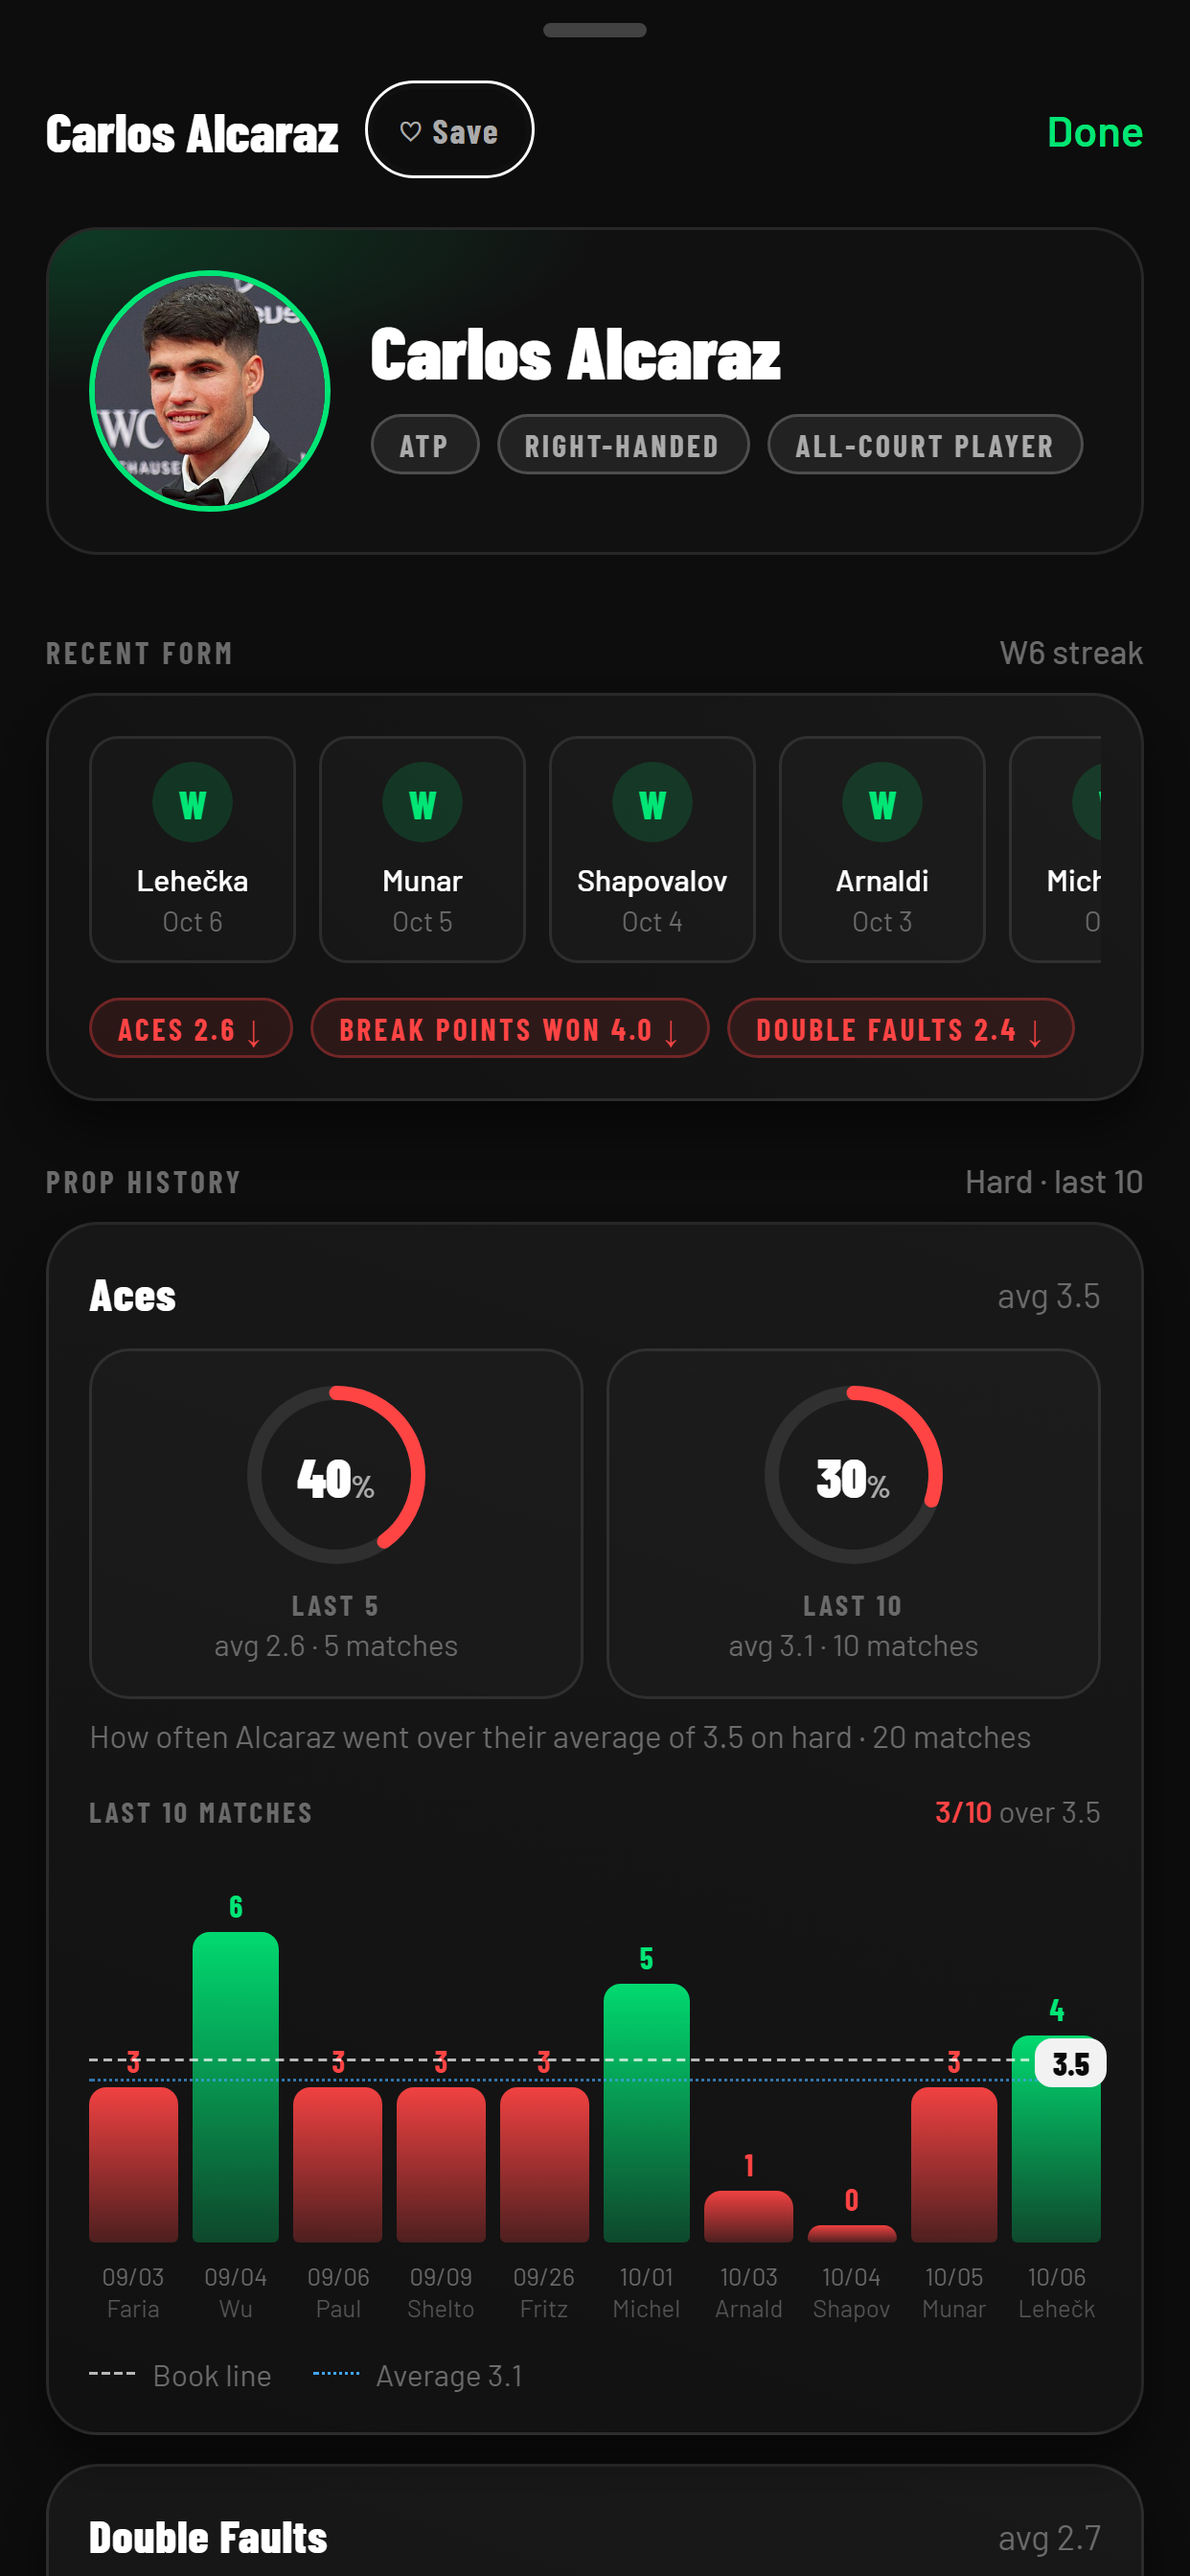
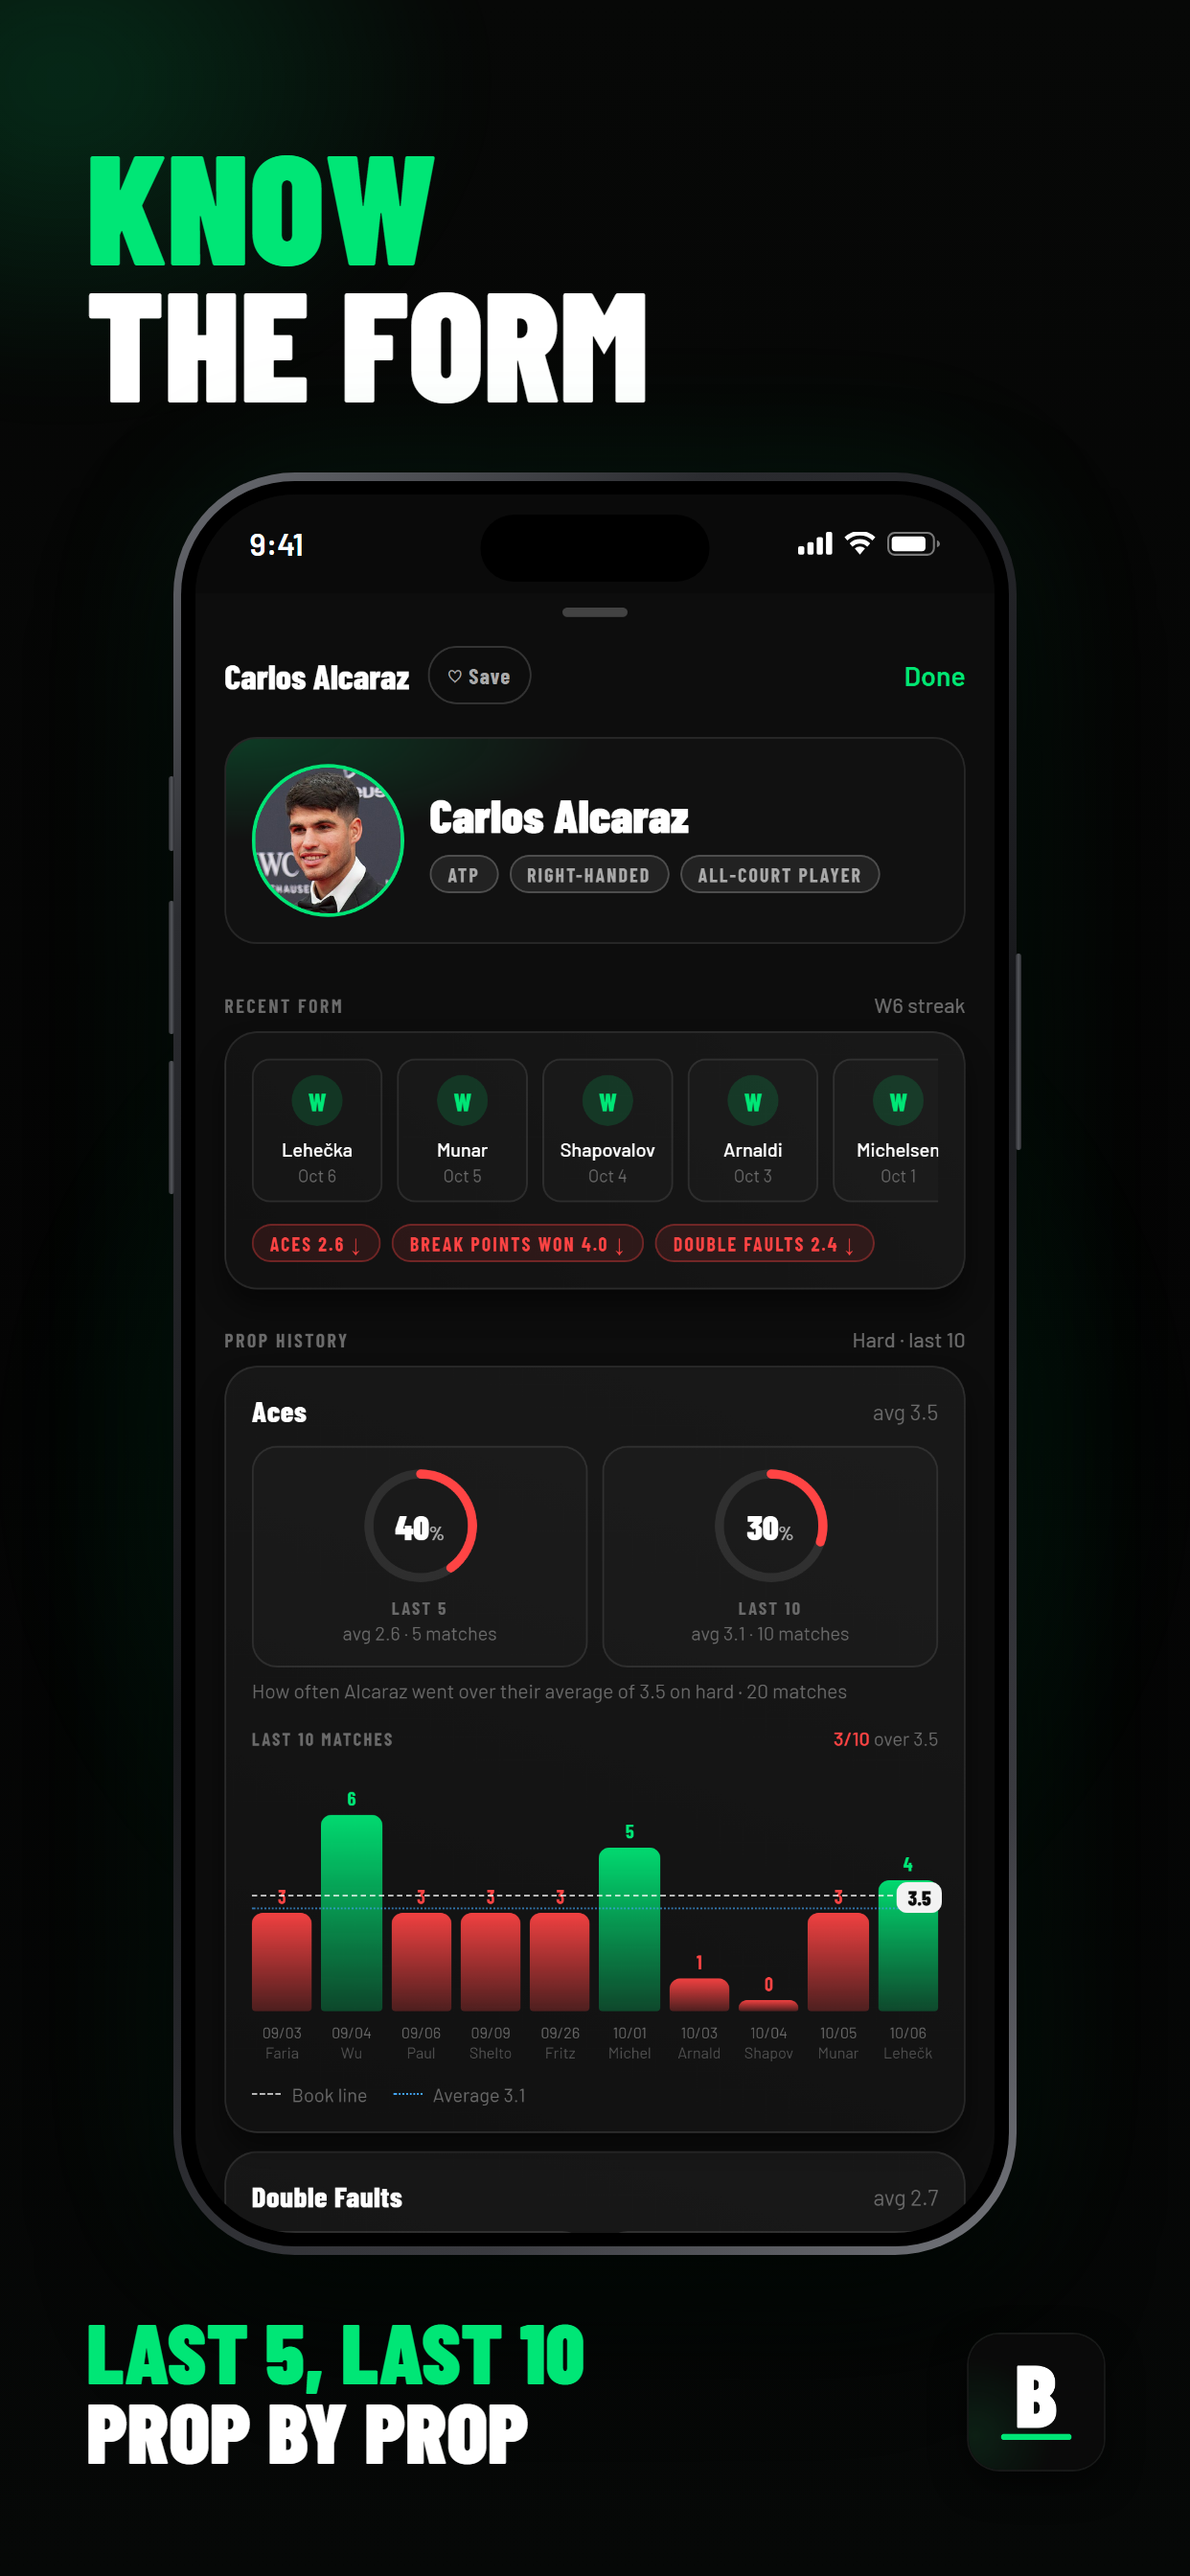
store: professional marketing frames for the App Store, from build 6
Six frames per size (6.9" 1320x2868, 6.5" 1242x2688), live on App Store
Connect: a two-line headline in green and white, the real app inside a drawn
iPhone (titanium edge, status bar, Dynamic Island), a two-line tagline and the
B mark; a hero frame with a tilted phone, brand bar and sport chips.

  1 Player props / projected.        Board, tilted
  2 Every line / priced live          Board (tennis)
  3 Our number / vs. the line         strongest play's sheet (Gauff, 80 elite)
  4 Every prop / one tap deep         NFL board, a player's props dropped down
  5 Know / the form                   Research (Alcaraz)
  6 Price any / matchup               Project verdict (Gauff vs Mertens)

The phone always holds an unretouched capture of the running app with real
data. No review counts, ratings, testimonials or results claims.

- scripts/store_frames.mjs: composes the frames (Barlow fonts and icon
  embedded) and renders both sizes with Puppeteer.
- scripts/screenshots.mjs: RAW=1 captures 440x902 screens for the frames;
  focus rings stripped before capture (the web build rings the sheet's Done
  button, the iOS app never does); Project uses a current matchup and scrolls
  to the verdict.
- raw captures stay out of git (store/raw/).

diff --git a/mobile/docs/store-listing.md b/mobile/docs/store-listing.md
@@ -87,16 +87,28 @@ Required sizes (iPhone only; `supportsTablet` is false):
 - 6.9" display: 1320 × 2868 (or 1290 × 2796 for 6.7") — required
 - 6.5" display: 1284 × 2778 or 1242 × 2688 — required unless 6.9" covers it (Apple now derives 6.5" from 6.9" uploads)
 
-Order (build 6, uploaded to App Store Connect 2026-10-06): Board · Picks · pick
-sheet of the board's strongest play · Project · Research player sheet · NFL
-board with a player's props dropped down. Plain app frames, no captions, from
-the running app with real data. The Picks frame shows a starred card only when
-the latest board has a real Pick of the Day.
+Marketing frames (build 6, on App Store Connect since 2026-10-06): a two-line
+headline (green, white), the real app inside a drawn iPhone with status bar and
+Dynamic Island, a two-line tagline and the B mark. The phone always holds an
+unretouched capture of the running app with real data; only the frame is drawn.
+No review counts, ratings, testimonials or results claims; copy describes what
+the app does.
 
-To refresh after a UI change:
+| # | Headline | Screen | Tagline |
+|---|---|---|---|
+| 1 | Player props / projected. | Board, tilted phone, brand bar and sport chips | — |
+| 2 | Every line / priced live | Board (tennis) | The live board / top plays first |
+| 3 | Our number / vs. the line | Pick sheet of the board's strongest play | Edge and confidence / on every prop |
+| 4 | Every prop / one tap deep | NFL board, a player's props dropped down | NFL lines / all week long |
+| 5 | Know / the form | Research player sheet | Last 5, last 10 / prop by prop |
+| 6 | Price any / matchup | Project verdict | Pick the players / get the number |
+
+To refresh after a UI change (from `mobile/`):
 
     npx expo export --platform web --output-dir dist-web
-    SERVE_DIR=dist-web PUPPETEER_DIR=<dir with puppeteer> node scripts/screenshots.mjs <reviewer-session-file> http://localhost:5173 store/screenshots
+    RAW=1 ONLY=01-board,03-pick-sheet,04-project,05-research,06-nfl-board SERVE_DIR=dist-web PUPPETEER_DIR=<dir with puppeteer> node scripts/screenshots.mjs <reviewer-session-file> http://localhost:5173 store/raw
+    PUPPETEER_DIR=<dir with puppeteer> node scripts/store_frames.mjs store/raw/raw store/screenshots
     python scripts/asc_screenshots.py --replace
 
-`ONLY=01-board` re-renders a single frame.
+Copy and frame order live in `scripts/store_frames.mjs` (`FRAMES`); the
+Project matchup lives in `scripts/screenshots.mjs` and should be a current one.

diff --git a/mobile/docs/final-report.md b/mobile/docs/final-report.md
@@ -140,4 +140,4 @@ The app never calls a restricted route.
 - **NFL lines every day.** The bot's 45-minute website refresh priced only today and tomorrow, so Tuesdays and Fridays were empty. It now prices every listed line with a game in the next 7 days and stores each game day as its own slate (`nfl/publish.py publish_upcoming`). The app and website show every upcoming game day at once. First run: 82 PrizePicks and 56 Underdog rows across Thursday, Sunday and Monday.
 - **The ⭐ is a flag, never a position.** The app's tennis picks promoted the board's #1 play to Pick of the Day whenever no pick was flagged. Only flagged picks get the star now. Board footers on the app and website say what the star means.
 - **Test NBA picks removed from the record.** The four 2026-10-05 test picks are excluded (hidden from the record and recaps, not graded, kept for audit). New admin route `/api/nba/results/exclude` and `scripts/exclude_picks.py` (reversible with `--undo`).
-- **Store screenshots** re-rendered from build 6 and uploaded to App Store Connect through the API: six frames each at 6.9" and 6.5" (Board, Picks, pick sheet, Project, Research, NFL board with a player's props dropped down). `scripts/asc_screenshots.py` uploads; the renderer now serves the web export itself.
+- **Store screenshots** are professional marketing frames from build 6, live on App Store Connect: six per size at 6.9" and 6.5" (hero, Board, pick sheet, NFL board, Research, Project), each the real app in a drawn iPhone with a headline and tagline. Raw captures come from `scripts/screenshots.mjs` (RAW=1), frames from `scripts/store_frames.mjs`, upload from `scripts/asc_screenshots.py`. See `store-listing.md` → Screenshots.

diff --git a/mobile/docs/testflight-steps.md b/mobile/docs/testflight-steps.md
@@ -66,7 +66,7 @@ App Store Connect → your app → **App Store** tab → version 1.0 → **App R
 - **Pricing and Availability**: Free (the membership is bought on the website). Availability: all territories is fine; the app itself only shows Subscribe on the US storefront.
 - **App Privacy**: answer per `apple-review.md` (Email, User ID, Device ID (push token), Purchase History — all "linked to you", none used for tracking; no analytics, no crash data).
 - **Age Rating**: per `apple-review.md` ("Gambling and Contests" → 17+/18+).
-- **Screenshots**: done through the API (2026-10-06, build 6): six frames each in the 6.9" and 6.5" iPhone slots. To replace them after a UI change, re-render (`store-listing.md` → Screenshots) and run `python scripts/asc_screenshots.py --replace`.
+- **Screenshots**: done through the API (2026-10-06, build 6): six marketing frames each in the 6.9" and 6.5" iPhone slots. To replace them after a UI change, follow `store-listing.md` → Screenshots (capture, compose, `python scripts/asc_screenshots.py --replace`).
 - **Description / keywords / support URL / marketing URL**: from `store-listing.md`.
 
 ## 6. Afterwards
